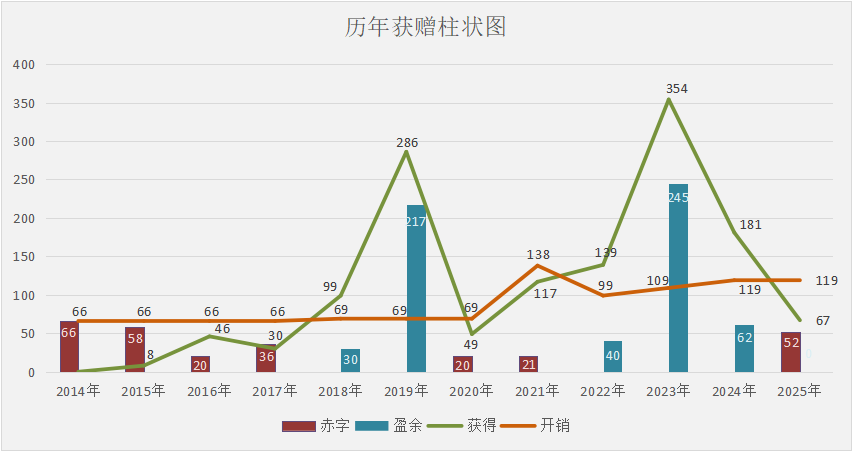
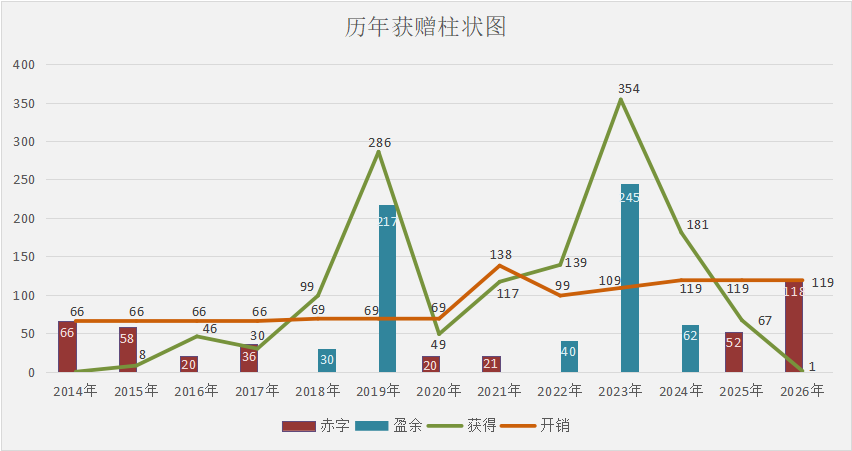
Site updated: 2026-01-16 12:06:24

Changed region(s): [[0.061, 0.1863, 0.9765, 0.9002]]

diff --git a/thanks/index.html b/thanks/index.html
@@ -33,7 +33,7 @@
 <meta property="og:image" content="https://rsreland.net/thanks/r2net_alipay.jpg">
 <meta property="og:image" content="https://rsreland.net/thanks/r2net_wechatpay.jpg">
 <meta property="article:published_time" content="2020-01-06T14:26:40.000Z">
-<meta property="article:modified_time" content="2025-12-28T12:38:44.622Z">
+<meta property="article:modified_time" content="2026-01-16T04:00:25.736Z">
 <meta property="article:author" content="百二一">
 <meta name="twitter:card" content="summary_large_image">
 <meta name="twitter:image" content="https://rsreland.net/thanks/earth.png">
@@ -315,6 +315,26 @@
 <h1 id="特别感谢！"><a href="#特别感谢！" class="headerlink" title="特别感谢！"></a>特别感谢！</h1><p>在2023年10月28日收到了「<strong>jirachi321</strong>」的三位数大额捐赠，这是至今本站收到的最高额捐款。</p>
 <p>让我感到高兴的是，未曾谋面的人愿意一次性捐这么多钱，这是对本站存在价值的认可。</p>
 <p>　</p>
+<h1 id="2026年的捐赠名单（感谢！）"><a href="#2026年的捐赠名单（感谢！）" class="headerlink" title="2026年的捐赠名单（感谢！）"></a>2026年的捐赠名单（感谢！）</h1><table>
+<thead>
+<tr>
+<th align="center">序号</th>
+<th align="center">日期</th>
+<th align="center">名字</th>
+<th>留言</th>
+</tr>
+</thead>
+<tbody><tr>
+<td align="center">1</td>
+<td align="center">2026年1月16日</td>
+<td align="center">佚名</td>
+<td></td>
+</tr>
+</tbody></table>
+<p>备注1：为尽量压缩运营成本，名单未使用自动化服务，完全由人工手动更新，所以会有延迟。</p>
+<p>备注2：名单不展示每个人的具体捐款数，但超过<strong>5元</strong>则会将名字标为粗体字。</p>
+<p>备注3：捐款对本站来说，更像是一种认可。感谢大家对本站的认可！</p>
+<p>　</p>
 <h1 id="2025年的捐赠名单（感谢！）"><a href="#2025年的捐赠名单（感谢！）" class="headerlink" title="2025年的捐赠名单（感谢！）"></a>2025年的捐赠名单（感谢！）</h1><table>
 <thead>
 <tr>
@@ -409,154 +429,8 @@
 <td>感谢你的付出</td>
 </tr>
 </tbody></table>
-<p>备注1：为尽量压缩运营成本，名单未使用自动化服务，完全由人工手动更新，所以会有延迟。</p>
-<p>备注2：名单不展示每个人的具体捐款数，但超过<strong>5元</strong>则会将名字标为粗体字。</p>
-<p>备注3：捐款对本站来说，更像是一种认可。感谢大家对本站的认可！</p>
 <p>　</p>
-<h1 id="2024年的捐赠名单（感谢！）"><a href="#2024年的捐赠名单（感谢！）" class="headerlink" title="2024年的捐赠名单（感谢！）"></a>2024年的捐赠名单（感谢！）</h1><table>
-<thead>
-<tr>
-<th align="center">序号</th>
-<th align="center">日期</th>
-<th align="center">名字</th>
-<th>留言</th>
-</tr>
-</thead>
-<tbody><tr>
-<td align="center">22</td>
-<td align="center">2024-12-24</td>
-<td align="center"><strong>compass</strong></td>
-<td>圣诞快乐，我是compass</td>
-</tr>
-<tr>
-<td align="center">21</td>
-<td align="center">2024-12-13</td>
-<td align="center">符</td>
-<td>谢谢</td>
-</tr>
-<tr>
-<td align="center">20</td>
-<td align="center">2024-12-7</td>
-<td align="center"><strong>佚名</strong></td>
-<td>感谢日文漫画资源分享</td>
-</tr>
-<tr>
-<td align="center">19</td>
-<td align="center">2024-11-29</td>
-<td align="center"><strong>Linn_ylz</strong></td>
-<td>感谢资源分享</td>
-</tr>
-<tr>
-<td align="center">18</td>
-<td align="center">2024-11-6</td>
-<td align="center"><strong>佚名</strong></td>
-<td></td>
-</tr>
-<tr>
-<td align="center">17</td>
-<td align="center">2024-9-20</td>
-<td align="center">佚名</td>
-<td></td>
-</tr>
-<tr>
-<td align="center">16</td>
-<td align="center">2024-9-7</td>
-<td align="center"><strong>佚名</strong></td>
-<td>感谢全金小说分享</td>
-</tr>
-<tr>
-<td align="center">15</td>
-<td align="center">2024-9-5</td>
-<td align="center">佚名</td>
-<td>终于找到了仇英这般超清的了，必须支持！</td>
-</tr>
-<tr>
-<td align="center">14</td>
-<td align="center">2024-7-17</td>
-<td align="center">佚名</td>
-<td></td>
-</tr>
-<tr>
-<td align="center">13</td>
-<td align="center">2024-6-26</td>
-<td align="center">佚名</td>
-<td>谢谢你~</td>
-</tr>
-<tr>
-<td align="center">12</td>
-<td align="center">2024-6-21</td>
-<td align="center"><strong>佚名</strong></td>
-<td>期待你越做越好，加油</td>
-</tr>
-<tr>
-<td align="center">11</td>
-<td align="center">2024-6-21</td>
-<td align="center">佚名</td>
-<td></td>
-</tr>
-<tr>
-<td align="center">10</td>
-<td align="center">2024-6-16</td>
-<td align="center">佚名</td>
-<td></td>
-</tr>
-<tr>
-<td align="center">9</td>
-<td align="center">2024-6-3</td>
-<td align="center">东东是个胆小鬼</td>
-<td></td>
-</tr>
-<tr>
-<td align="center">8</td>
-<td align="center">2024-5-16</td>
-<td align="center"><strong>佚名</strong></td>
-<td>感谢分享</td>
-</tr>
-<tr>
-<td align="center">7</td>
-<td align="center">2024-4-22</td>
-<td align="center"><strong>佚名</strong></td>
-<td></td>
-</tr>
-<tr>
-<td align="center">6</td>
-<td align="center">2024-4-12</td>
-<td align="center">佚名</td>
-<td></td>
-</tr>
-<tr>
-<td align="center">5</td>
-<td align="center">2024-4-1</td>
-<td align="center">佚名</td>
-<td></td>
-</tr>
-<tr>
-<td align="center">4</td>
-<td align="center">2024-2-28</td>
-<td align="center">佚名</td>
-<td></td>
-</tr>
-<tr>
-<td align="center">3</td>
-<td align="center">2024-2-2</td>
-<td align="center"><strong>Molu233</strong></td>
-<td>继续加油</td>
-</tr>
-<tr>
-<td align="center">2</td>
-<td align="center">2024-1-27</td>
-<td align="center">佚名</td>
-<td></td>
-</tr>
-<tr>
-<td align="center">1</td>
-<td align="center">2024-1-17</td>
-<td align="center">佚名</td>
-<td></td>
-</tr>
-</tbody></table>
-<p>　</p>
-<h1 id="2023年及以前的捐赠名单（感谢！）"><a href="#2023年及以前的捐赠名单（感谢！）" class="headerlink" title="2023年及以前的捐赠名单（感谢！）"></a>2023年及以前的捐赠名单（感谢！）</h1><p>详见：<a href="https://rsreland.net/thxlist/">https://rsreland.net/thxlist/</a></p>
+<h1 id="2024年及以前的捐赠名单（感谢！）"><a href="#2024年及以前的捐赠名单（感谢！）" class="headerlink" title="2024年及以前的捐赠名单（感谢！）"></a>2024年及以前的捐赠名单（感谢！）</h1><p>详见：<a href="https://rsreland.net/thxlist/">https://rsreland.net/thxlist/</a></p>
 <p>　</p>
 </div>
 

diff --git a/thxlist/index.html b/thxlist/index.html
@@ -21,15 +21,15 @@
   <meta name="author" content="百二一">
   <meta name="keywords" content="">
   
-    <meta name="description" content="感谢下列朋友的捐赠！　 2023年   序号 日期 名字 留言    32 2023-11-4 佚名    31 2023-10-31 ICARUS 现在才注意到有天降之物的漫画，太好了吧   30 2023-10-30 luckeyfree    29 2023-10-29 佚名    28 2023-10-28 jirachi321    27 2023-9-30 佚名 感谢各类资源，希望">
+    <meta name="description" content="感谢下列朋友的捐赠！　 2024年   序号 日期 名字 留言    22 2024-12-24 compass 圣诞快乐，我是compass   21 2024-12-13 符 谢谢   20 2024-12-7 佚名 感谢日文漫画资源分享   19 2024-11-29 Linn_ylz 感谢资源分享   18 2024-11-6 佚名    17 2024-9-20 佚名    16 2">
 <meta property="og:type" content="website">
 <meta property="og:title" content="感谢名单">
 <meta property="og:url" content="https://rsreland.net/thxlist/index.html">
 <meta property="og:site_name" content="百二一">
-<meta property="og:description" content="感谢下列朋友的捐赠！　 2023年   序号 日期 名字 留言    32 2023-11-4 佚名    31 2023-10-31 ICARUS 现在才注意到有天降之物的漫画，太好了吧   30 2023-10-30 luckeyfree    29 2023-10-29 佚名    28 2023-10-28 jirachi321    27 2023-9-30 佚名 感谢各类资源，希望">
+<meta property="og:description" content="感谢下列朋友的捐赠！　 2024年   序号 日期 名字 留言    22 2024-12-24 compass 圣诞快乐，我是compass   21 2024-12-13 符 谢谢   20 2024-12-7 佚名 感谢日文漫画资源分享   19 2024-11-29 Linn_ylz 感谢资源分享   18 2024-11-6 佚名    17 2024-9-20 佚名    16 2">
 <meta property="og:locale" content="zh_CN">
 <meta property="article:published_time" content="2020-02-25T05:50:56.000Z">
-<meta property="article:modified_time" content="2025-01-21T06:09:08.893Z">
+<meta property="article:modified_time" content="2026-01-16T03:59:36.725Z">
 <meta property="article:author" content="百二一">
 <meta name="twitter:card" content="summary_large_image">
   
@@ -281,6 +281,149 @@
   <div class="markdown-body">
 
 <h1 id="感谢下列朋友的捐赠！"><a href="#感谢下列朋友的捐赠！" class="headerlink" title="感谢下列朋友的捐赠！"></a>感谢下列朋友的捐赠！</h1><p>　</p>
+<h1 id="2024年"><a href="#2024年" class="headerlink" title="2024年"></a>2024年</h1><table>
+<thead>
+<tr>
+<th align="center">序号</th>
+<th align="center">日期</th>
+<th align="center">名字</th>
+<th>留言</th>
+</tr>
+</thead>
+<tbody><tr>
+<td align="center">22</td>
+<td align="center">2024-12-24</td>
+<td align="center"><strong>compass</strong></td>
+<td>圣诞快乐，我是compass</td>
+</tr>
+<tr>
+<td align="center">21</td>
+<td align="center">2024-12-13</td>
+<td align="center">符</td>
+<td>谢谢</td>
+</tr>
+<tr>
+<td align="center">20</td>
+<td align="center">2024-12-7</td>
+<td align="center"><strong>佚名</strong></td>
+<td>感谢日文漫画资源分享</td>
+</tr>
+<tr>
+<td align="center">19</td>
+<td align="center">2024-11-29</td>
+<td align="center"><strong>Linn_ylz</strong></td>
+<td>感谢资源分享</td>
+</tr>
+<tr>
+<td align="center">18</td>
+<td align="center">2024-11-6</td>
+<td align="center"><strong>佚名</strong></td>
+<td></td>
+</tr>
+<tr>
+<td align="center">17</td>
+<td align="center">2024-9-20</td>
+<td align="center">佚名</td>
+<td></td>
+</tr>
+<tr>
+<td align="center">16</td>
+<td align="center">2024-9-7</td>
+<td align="center"><strong>佚名</strong></td>
+<td>感谢全金小说分享</td>
+</tr>
+<tr>
+<td align="center">15</td>
+<td align="center">2024-9-5</td>
+<td align="center">佚名</td>
+<td>终于找到了仇英这般超清的了，必须支持！</td>
+</tr>
+<tr>
+<td align="center">14</td>
+<td align="center">2024-7-17</td>
+<td align="center">佚名</td>
+<td></td>
+</tr>
+<tr>
+<td align="center">13</td>
+<td align="center">2024-6-26</td>
+<td align="center">佚名</td>
+<td>谢谢你~</td>
+</tr>
+<tr>
+<td align="center">12</td>
+<td align="center">2024-6-21</td>
+<td align="center"><strong>佚名</strong></td>
+<td>期待你越做越好，加油</td>
+</tr>
+<tr>
+<td align="center">11</td>
+<td align="center">2024-6-21</td>
+<td align="center">佚名</td>
+<td></td>
+</tr>
+<tr>
+<td align="center">10</td>
+<td align="center">2024-6-16</td>
+<td align="center">佚名</td>
+<td></td>
+</tr>
+<tr>
+<td align="center">9</td>
+<td align="center">2024-6-3</td>
+<td align="center">东东是个胆小鬼</td>
+<td></td>
+</tr>
+<tr>
+<td align="center">8</td>
+<td align="center">2024-5-16</td>
+<td align="center"><strong>佚名</strong></td>
+<td>感谢分享</td>
+</tr>
+<tr>
+<td align="center">7</td>
+<td align="center">2024-4-22</td>
+<td align="center"><strong>佚名</strong></td>
+<td></td>
+</tr>
+<tr>
+<td align="center">6</td>
+<td align="center">2024-4-12</td>
+<td align="center">佚名</td>
+<td></td>
+</tr>
+<tr>
+<td align="center">5</td>
+<td align="center">2024-4-1</td>
+<td align="center">佚名</td>
+<td></td>
+</tr>
+<tr>
+<td align="center">4</td>
+<td align="center">2024-2-28</td>
+<td align="center">佚名</td>
+<td></td>
+</tr>
+<tr>
+<td align="center">3</td>
+<td align="center">2024-2-2</td>
+<td align="center"><strong>Molu233</strong></td>
+<td>继续加油</td>
+</tr>
+<tr>
+<td align="center">2</td>
+<td align="center">2024-1-27</td>
+<td align="center">佚名</td>
+<td></td>
+</tr>
+<tr>
+<td align="center">1</td>
+<td align="center">2024-1-17</td>
+<td align="center">佚名</td>
+<td></td>
+</tr>
+</tbody></table>
+<p>　</p>
 <h1 id="2023年"><a href="#2023年" class="headerlink" title="2023年"></a>2023年</h1><table>
 <thead>
 <tr>
